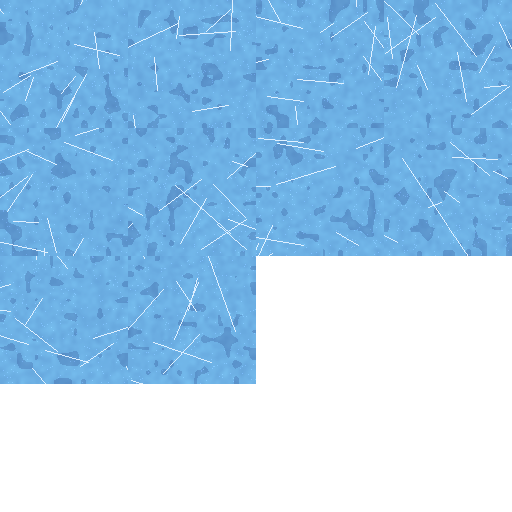
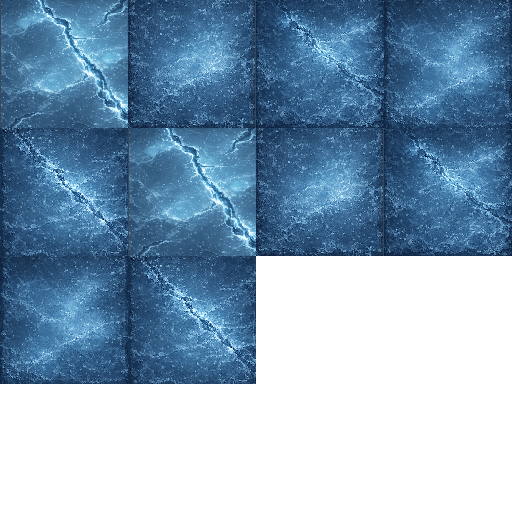
Use user ice.png tiles for modded ice

diff --git a/docs/STATUS.md b/docs/STATUS.md
@@ -149,7 +149,7 @@ Changes
 - Ice biome: now prefers `modded/ice-15*` tiles if present, otherwise falls back to `test/ground-15`.
 - Ice biome: availability check now uses TextureRegion (skin regions) so modded tiles are detected even if Drawable cache is absent.
 - Server: host position thread now skips when player body is missing; Player.dispose nulls body to avoid Box2D native crash on exit.
-- Assets: regenerated modded ice tiles with procedural icy textures (replaced flat blue placeholders).
+- Assets: replaced modded ice tiles with user-provided `ice.png` variants (5 tiles, repeated for alt slots).
 
 Impact
 - Original game files remain in basegame/ and should not be edited in place.